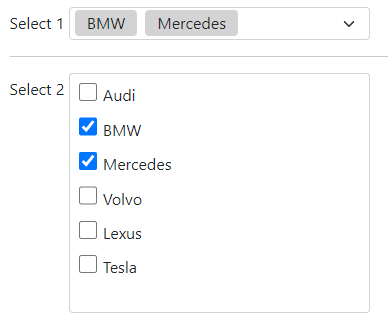
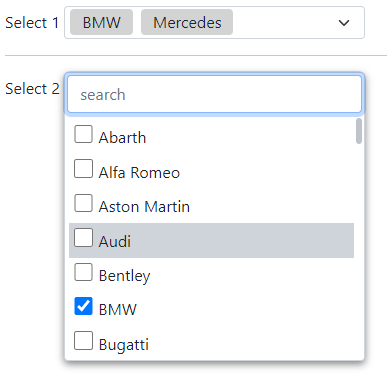
demo update

Changed region(s): [[0.0, 0.1835, 0.9588, 0.9786], [0.0, 0.0, 0.9588, 0.1223]]

diff --git a/demo.html b/demo.html
@@ -29,7 +29,7 @@
         </select>
 
 <hr/>
-        <label>Select 2 (searchable)</label>
+        <label>Select 2</label>
         <select name="field2" id="field2" multiple multiselect-search="true">
           <option>Abarth</option>
           <option>Alfa Romeo</option>
@@ -100,7 +100,7 @@
       </div></div>
       
 <br/><br/><br/>
-      <button onclick="field2.innerHTML='<option value=1>New option 1</option><option selected value=2>New option 2</option><option value=3>New option 3</option>';field2.loadOptions()">Load new options</button>
+      <button class="btn btn-light" onclick="field2.innerHTML='<option value=1>New option 1</option><option selected value=2>New option 2</option><option value=3>New option 3</option>';field2.loadOptions()">Load new options</button>
     </div>
 
     <script src="https://cdn.jsdelivr.net/npm/bootstrap@5.0.0/dist/js/bootstrap.bundle.min.js" integrity="sha384-p34f1UUtsS3wqzfto5wAAmdvj+osOnFyQFpp4Ua3gs/ZVWx6oOypYoCJhGGScy+8" crossorigin="anonymous"></script>

diff --git a/multiselect-dropdown.js b/multiselect-dropdown.js
@@ -28,6 +28,7 @@ style.innerHTML = `
   color:#ced4da;
 }
 .multiselect-dropdown-list-wrapper{
+  box-shadow: gray 0 3px 8px;
   z-index: 100;
   padding:2px;
   border-radius: 4px;

diff --git a/README.md b/README.md
@@ -14,7 +14,22 @@ Just add "multiple" attribute to SELECT elements.
         ... 
     </select>
 
+To enable dynamic list search, add multiselect-search="true" attribute.
+
+    <select multiple id="sel1" multiselect-search="true"> 
+        ... 
+    </select>
+
 To update options list, call *selectId.loadOptions()* where "selectId" is HTML select element.
+
+    fetch("/options").then(d=>d.json()).then(d=>{
+      sel1.innerHTML = 
+        d.map(t=>'<option value="'+t.value+'">'+t.text+'</option>');
+
+      sel1.loadOptions();
+    })
+
+
 
 ## Demo
 
